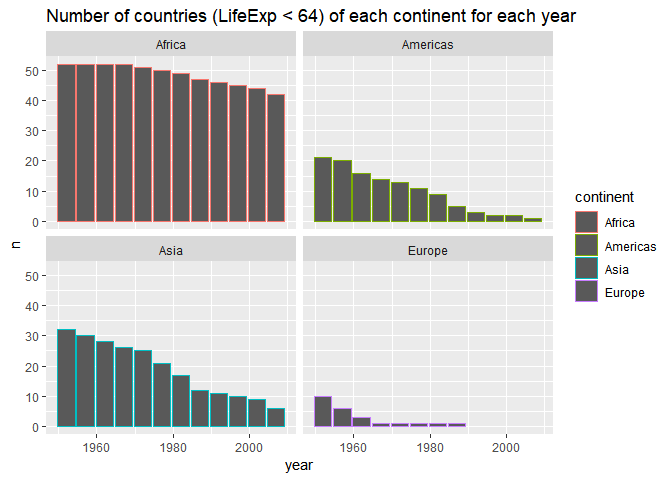
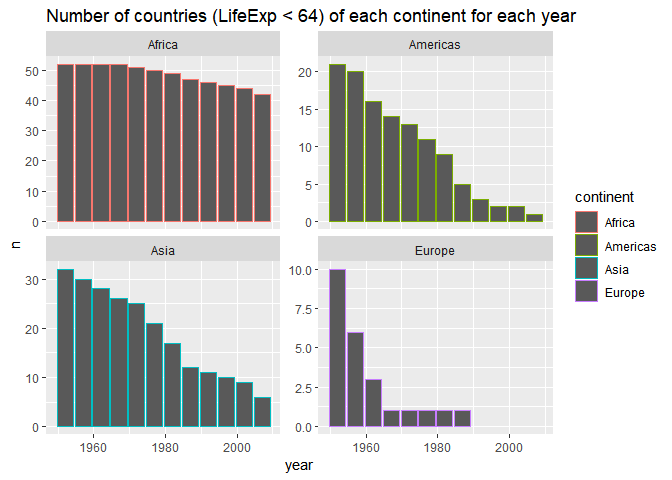
last

diff --git a/hw03_gapminder-chenchenguo.md b/hw03_gapminder-chenchenguo.md
@@ -23,6 +23,7 @@ suppressPackageStartupMessages(library(kableExtra))
 
 ``` r
 #First list the basic information of dataset: gapminder
+#this part of code is to show basic information of gapminder data set
 typeof(gapminder)
 ```
 
@@ -111,6 +112,7 @@ str(gapminder)
 ``` r
 # Task 1: Get the minimum and maximum of GDP per capita for all continents
 
+# In order to observe the max and min GdpPercap for all continents, using group_by() and summarize() function and using knitr::kable to indicate the data.
 Gdp=gapminder %>% 
   group_by(continent) %>% 
   summarize(Maxgdp=max(gdpPercap), Mingdp=min(gdpPercap))
@@ -219,6 +221,7 @@ gapminder %>%
 ![](hw03_gapminder-chenchenguo_files/figure-markdown_github/unnamed-chunk-3-3.png)
 
 ``` r
+# To interprate data visually, using scatter plot and line fitting, to show the tendency of each one.
 trend= gapminder %>% 
   group_by(continent, year) %>% 
   summarize(Maxigdp=max(gdpPercap), Minigdp=min(gdpPercap))
@@ -243,7 +246,7 @@ trend %>%
 
 ``` r
 #Task 2: Look the spread of GDP per capita within the continents
-
+# Firstly, using hist plot to partly showing GDPpercap data of each continent and showing the density of distribution for Gdp of each continent.
 gapminder %>% 
   ggplot(aes(gdpPercap, fill=continent))+
   facet_wrap(~ continent, scales = "free_y")+
@@ -266,6 +269,7 @@ gapminder %>%
 ![](hw03_gapminder-chenchenguo_files/figure-markdown_github/unnamed-chunk-4-2.png)
 
 ``` r
+# Then through grouping by continent, using summarize() function to inteprate data.
 tbgdp= gapminder %>% 
   group_by(continent) %>% 
   summarize(Min=min(gdpPercap), Mean=mean(gdpPercap), Median=median(gdpPercap), Max=max(gdpPercap))
@@ -384,6 +388,8 @@ Oceania
 ``` r
 # Task 3: Compute the trimmed mean of life expectancy for different years. Or a weighted mean, weighting by population. Just try something other than the plain vanilla mean.
 
+
+# Here, trimmed mean coefficient has been set to 0.25, which means quarter part of begin and end data are ignored.
 trimmed=gapminder %>% 
   group_by(year) %>% 
   summarize(mean_lifeexp=mean(lifeExp), trimmed_mean_lifeexp=mean(lifeExp,trim = 0.25)) %>% 
@@ -543,6 +549,7 @@ trimmed\_mean\_lifeexp
 </tbody>
 </table>
 ``` r
+# Here, two line of both trimmed mean and normal mean are shown in a figure to separately indicate the tendency.
 ggplot(trimmed,aes(year,trimmed_mean_lifeexp))+
   geom_point(color="blue")+
   geom_line(color="blue")+
@@ -554,6 +561,7 @@ ggplot(trimmed,aes(year,trimmed_mean_lifeexp))+
 ![](hw03_gapminder-chenchenguo_files/figure-markdown_github/unnamed-chunk-5-1.png)
 
 ``` r
+# similarly to upper code, the weighted mean has been arranged by year.
 weighted=gapminder %>% 
   group_by(year) %>% 
   summarize(mean=mean(lifeExp),weighted_mean_life=weighted.mean(lifeExp,pop)) %>% 
@@ -713,6 +721,7 @@ weighted\_mean\_life
 </tbody>
 </table>
 ``` r
+# both normal mean and weighted mean are shown in one figure.
 ggplot(weighted,aes(year,weighted_mean_life))+
   geom_point(color="blue")+
   geom_line(color="blue")+
@@ -725,7 +734,7 @@ ggplot(weighted,aes(year,weighted_mean_life))+
 
 ``` r
 # Task 4: How is the life Expectancy changing over time on different continents?
-
+# using summarize() function to show all mean, max and mini lifeexp by year.
 lifechange=gapminder %>% 
   group_by(continent, year) %>% 
   summarize(Mean_lifeexp=mean(lifeExp), Max_lifeexp=max(lifeExp), Min_lifeexp=min(lifeExp))
@@ -1778,6 +1787,7 @@ Oceania
 </tbody>
 </table>
 ``` r
+ # this figure indicated the scatter plot of mean lifeexp changing with fitting line of each continent. 
 lifechange %>% 
   ggplot(aes(year, Mean_lifeexp, color=continent))+
   geom_point()+geom_smooth(method = "lm", se=FALSE)+
@@ -1787,6 +1797,7 @@ lifechange %>%
 ![](hw03_gapminder-chenchenguo_files/figure-markdown_github/unnamed-chunk-7-1.png)
 
 ``` r
+# and this one indicated the general lifeexpectancy changing of different continent
 gapminder %>% 
   ggplot(aes(year, lifeExp, color=continent))+
   geom_point()+geom_smooth(method = "lm", se=FALSE)+
@@ -1796,6 +1807,7 @@ gapminder %>%
 ![](hw03_gapminder-chenchenguo_files/figure-markdown_github/unnamed-chunk-7-2.png)
 
 ``` r
+# the difference of this and upper figure is to seperately using y label to more directly interpret the data.
 gapminder %>% 
   ggplot(aes(year, lifeExp, color=continent))+
   facet_wrap( ~continent, scales = "free_y")+
@@ -1808,6 +1820,8 @@ gapminder %>%
 ``` r
 #Task 5: Report the absolute and or relative abundance of countries with low life expectancy over time by continent: Compute some measure of worldwide life expectancy- a mean or median or some other quantile or perhaps your current age. Then determine how many counties on each continent have a life expectancy less than this benchmark, for each year.
 
+
+# the benchmark here I decided to use the mean of mean lifeexp for all continent.
 benchmark_lifeexp= gapminder %>% 
   group_by(continent) %>%
   summarize(Min=min(lifeExp), Mean=mean(lifeExp), Median=median(lifeExp), Max=max(lifeExp))
@@ -1924,6 +1938,8 @@ Oceania
 </tbody>
 </table>
 ``` r
+#initial a array called a to store all mean lifeexp of each continent.
+# the setted benchmark is wholemean
 a<- c(48.86533,64.65874,60.06490,71.90369,74.32621)
 wholemean= mean(a)
 wholemean
@@ -1934,6 +1950,7 @@ wholemean
 ``` r
 # The benchmark is 63.96377, round to 64
 
+# using filter function to filter out continent countries whose lifeexp is lower than benchmark
 lowlifenumber= gapminder %>% 
   group_by(continent,year) %>% 
   filter(lifeExp<64) %>% 
@@ -2446,10 +2463,12 @@ Europe
 </tbody>
 </table>
 ``` r
+#finally using geom_col is the best way to compare the number of countries that lower than benchmark.
 lowlifenumber %>% 
   ggplot(aes(year,n, color=continent))+
-  facet_wrap(~ continent)+
-  geom_col()+ggtitle("Number of countries (LifeExp < 64) of each continent for each year")
+  facet_wrap(~ continent, scales="free_y")+
+  geom_col()+
+  ggtitle("Number of countries (LifeExp < 64) of each continent for each year")
 ```
 
 ![](hw03_gapminder-chenchenguo_files/figure-markdown_github/unnamed-chunk-8-1.png)
